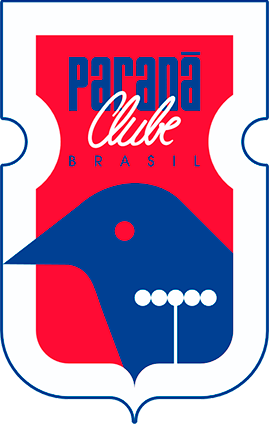
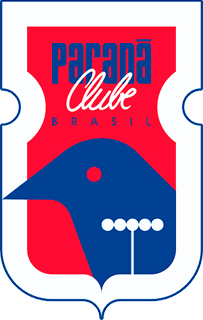
perf: menos tráfego — imagens menores, cache nos arquivos e respostas comprimidas
O Render passou dos 5 GB de saída do plano Hobby. Escudos, logo e capa do link
foram reduzidos (no máximo 320 px nos escudos, paleta de 256 cores): de 4 MB
para 330 KB. Arquivos estáticos ganham Cache-Control (1 ano com ?v=, 7 dias
nas imagens, 1 dia no resto; sw.js e manifest sempre conferidos) e as
respostas saem com Brotli/gzip.

diff --git a/src/Fc25Draft.Web/Program.cs b/src/Fc25Draft.Web/Program.cs
@@ -9,6 +9,7 @@ using Fc25Draft.Web.Security;
 using Fc25Draft.Web.Services;
 using Microsoft.AspNetCore.Authentication;
 using Microsoft.AspNetCore.HttpOverrides;
+using Microsoft.AspNetCore.ResponseCompression;
 using Microsoft.EntityFrameworkCore;
 using Blazored.Toast;
 
@@ -34,6 +35,14 @@ builder.Services.AddRazorPages();
 builder.Services.AddServerSideBlazor(o => o.DetailedErrors = builder.Environment.IsDevelopment())
     .AddHubOptions(o => o.MaximumReceiveMessageSize = 512 * 1024);
 builder.Services.AddBlazoredToast();
+// O Render cobra o tráfego de saída que passa de 5 GB no mês: páginas, CSS, JS e JSON saem comprimidos.
+builder.Services.AddResponseCompression(o =>
+{
+    o.EnableForHttps = true;
+    o.Providers.Add<BrotliCompressionProvider>();
+    o.Providers.Add<GzipCompressionProvider>();
+    o.MimeTypes = ResponseCompressionDefaults.MimeTypes.Concat(["image/svg+xml", "application/manifest+json"]);
+});
 builder.Services.AddSingleton<IIdempotencyStore, PostgresIdempotencyStore>();
 
 var app = builder.Build();
@@ -181,7 +190,23 @@ forwardedOptions.KnownProxies.Clear();
 app.UseForwardedHeaders(forwardedOptions);
 
 app.UseHttpsRedirection();
-app.UseStaticFiles();
+app.UseResponseCompression();
+
+// Com ?v= (asp-append-version ou versão posta à mão) o endereço muda junto com o arquivo, então fica no cache
+// para sempre. Sem versão (escudos, logo, html2canvas, blazor.server.js) o navegador guarda por um tempo e
+// depois só confere pelo ETag (304, sem baixar de novo). Service worker e manifest são sempre conferidos.
+app.UseStaticFiles(new StaticFileOptions
+{
+    OnPrepareResponse = ctx =>
+    {
+        var nome = ctx.File.Name;
+        ctx.Context.Response.Headers.CacheControl =
+            nome is "sw.js" or "manifest.json" ? "no-cache"
+            : ctx.Context.Request.Query.ContainsKey("v") ? "public, max-age=31536000, immutable"
+            : Path.GetExtension(nome) is ".png" or ".svg" or ".jpg" or ".webp" or ".ico" ? "public, max-age=604800"
+            : "public, max-age=86400";
+    }
+});
 
 app.UseRouting();
 app.UseAuthentication();
